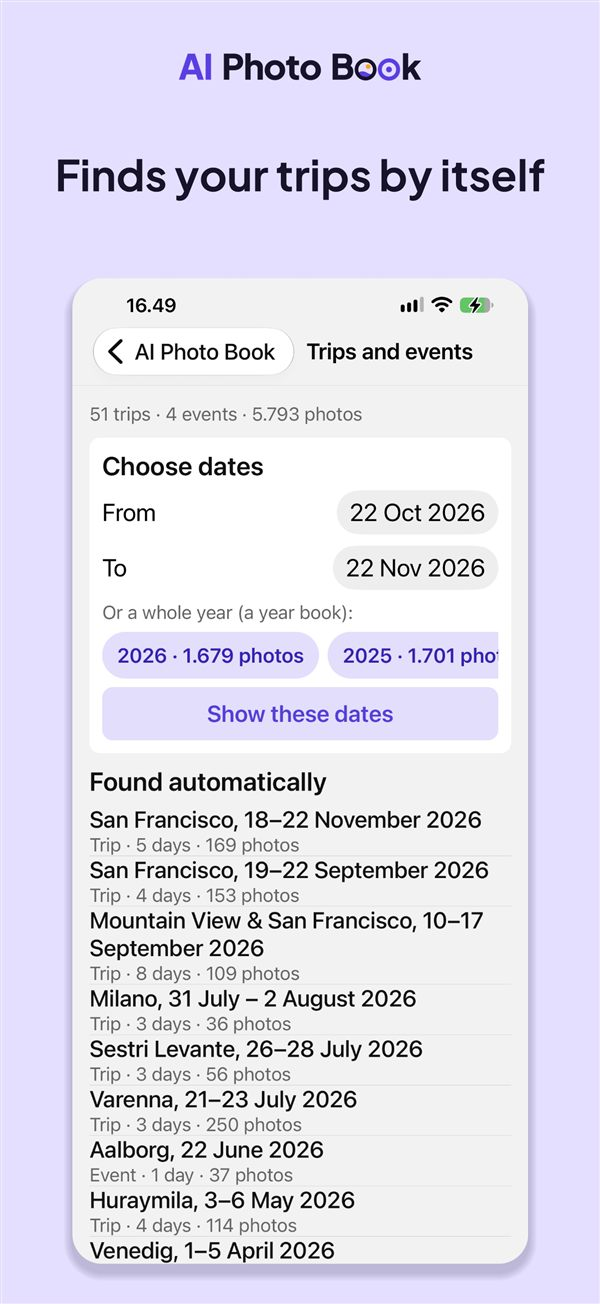
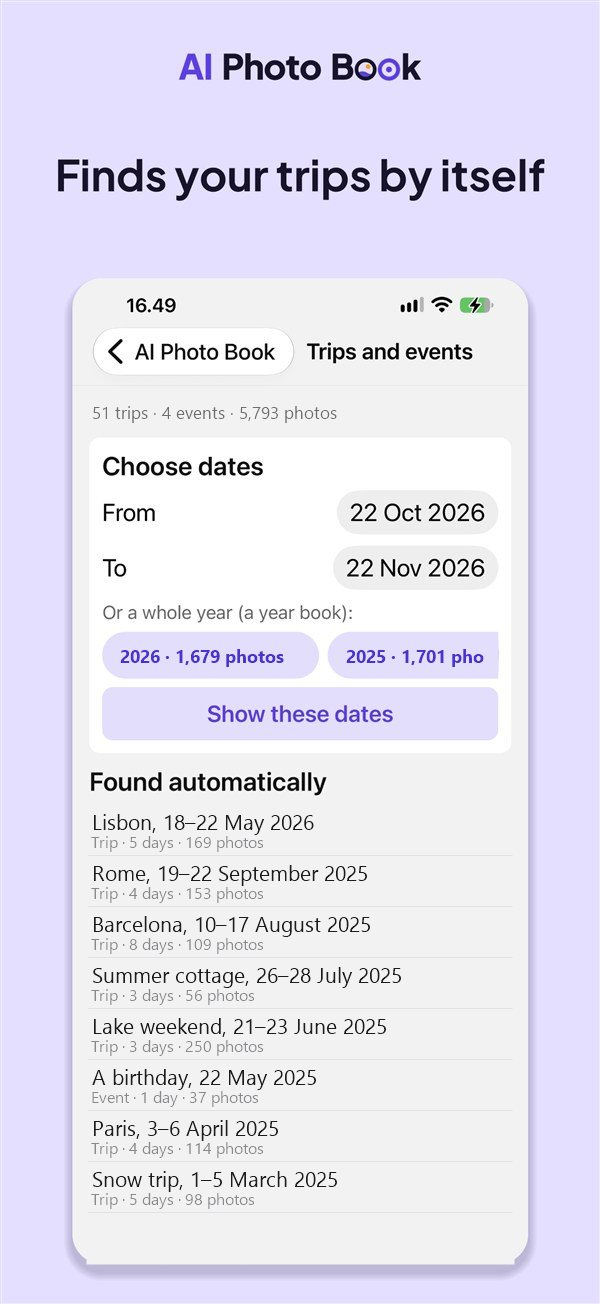
Website: pictures with made-up trips and the person pixelated (decision 97); gift page says Coming soon until launch (decision 98)

diff --git a/gift/index.html b/gift/index.html
@@ -25,8 +25,12 @@
   <div class="box gift">
     <p>Your first book's print files are free with the code</p>
     <p class="code" id="code">FIRSTBOOKFREE</p>
-    <a class="badge" id="redeem" href="https://apps.apple.com/redeem?ctx=offercodes&amp;id=6833502306&amp;code=FIRSTBOOKFREE">Get it free on the App Store</a>
-    <p class="note">On your iPhone: the App Store opens with the code filled in. Printing and delivery are paid to the printer.</p>
+    <!-- Until launch (decision 98): "Coming soon". On launch day, once FIRSTBOOKFREE exists in App Store Connect, remove
+         the "soon" lines and un-comment the redeem button (docs/launch-plan.md, launch-day checklist). -->
+    <span class="badge soon">Coming soon to the App Store</span>
+    <p class="note">Keep the code: it works once the app is in the App Store. Printing and delivery are paid to the printer.</p>
+    <!-- <a class="badge" id="redeem" href="https://apps.apple.com/redeem?ctx=offercodes&amp;id=6833502306&amp;code=FIRSTBOOKFREE">Redeem the code in the App Store</a>
+    <p class="note">On your iPhone: the App Store opens with the code filled in. Printing and delivery are paid to the printer.</p> -->
   </div>
 
   <div class="shots">
@@ -50,7 +54,8 @@
   const given = new URLSearchParams(location.search).get('code');
   if (given && /^[A-Za-z0-9-]{1,64}$/.test(given)) {
     document.getElementById('code').textContent = given;
-    document.getElementById('redeem').href = 'https://apps.apple.com/redeem?ctx=offercodes&id=6833502306&code=' + encodeURIComponent(given);
+    const redeem = document.getElementById('redeem');
+    if (redeem) redeem.href = 'https://apps.apple.com/redeem?ctx=offercodes&id=6833502306&code=' + encodeURIComponent(given);
   }
 </script>
 </body>
